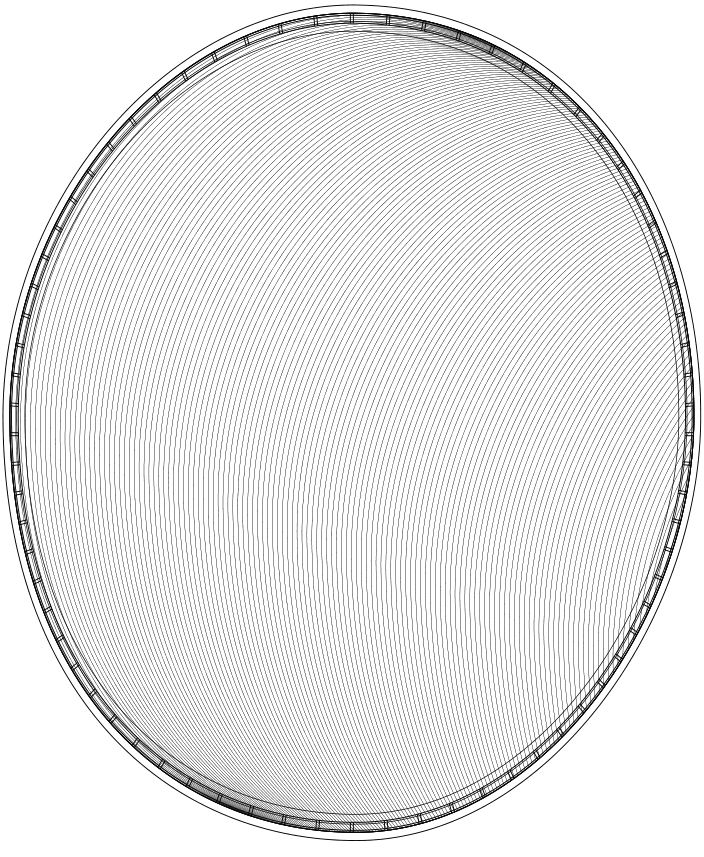
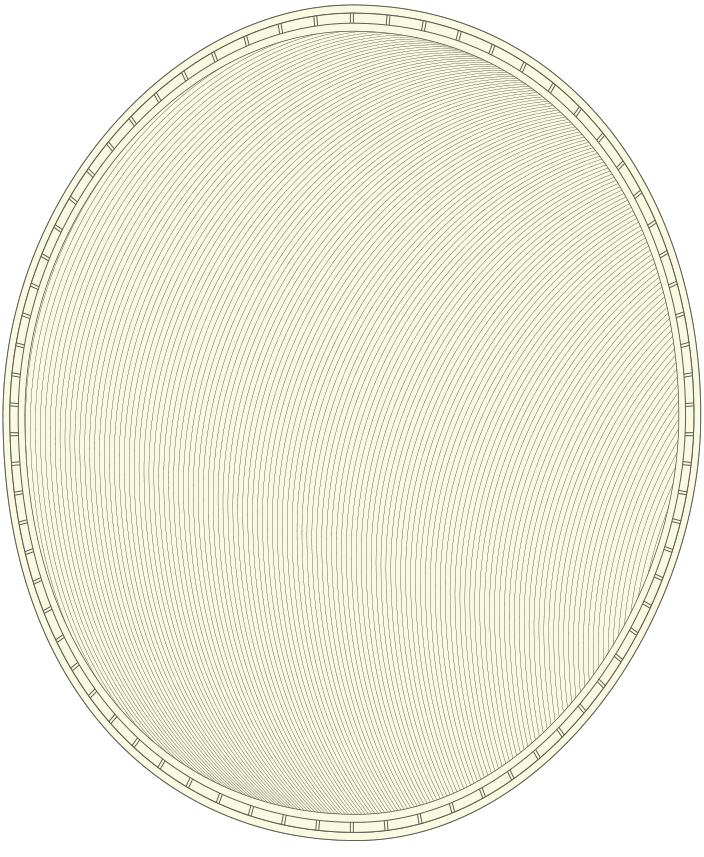
Put the frame's own colours back: the cream ground and the olive engraving
The frame shipped as an alpha stencil painted in the page's ink, which
threw away what the CV actually draws — the cream ground inside the oval,
the olive-grey guilloche, the cream ribbon with its olive outline and
letters. That was a decision about theming, not a faithful lift, and it
was the wrong one: the frame is a made thing and it should arrive as it
was made.

So the frame and the ribbon are now reproduced exactly, replayed path by
path in the CV's own colours onto a transparent ground, in document order
so the overlaps land where they did. Two images, no masks, identical in
both themes. The cream ground travels with the frame rather than being
faked from the page colour, which also means the photograph sits on its
proper warm backdrop instead of straight on the page.

The signature stays a stencil, and deliberately: it lies on the page
rather than on the frame's own ground, and its slate ink cannot be seen
against the dark theme. It is the one part that still takes the page's
ink colour.

Verified in both themes on both pages: photograph, frame and ribbon all
load as colour images, the signature keeps its mask and its ink follows
the theme, the layer order is engraving, photograph, ribbon, and nothing
overflows or errors.

diff --git a/site/about.html b/site/about.html
@@ -140,12 +140,13 @@ svg{ display:block; }
 .policy{ max-width:72ch; margin:0 auto; }
 
 /* ── the framed portrait ───────────────────────────────────────────────
-   Lifted off the CV: the photograph is a picture, but the engraved frame,
-   its name ribbon and the signature are line drawings held as alpha
-   stencils, so `background:currentColor` paints them in the page's ink —
-   dark on paper, pale in the dark theme, from one set of files. The
-   engraving sits behind the photograph and the ribbon in front of it,
-   which is how the original stacks them. */
+   Lifted off the CV and reproduced as it is drawn there: the frame keeps
+   its own cream ground and olive engraving, the ribbon its own colours,
+   in both themes. The engraving sits behind the photograph and the ribbon
+   in front of it, across the shoulders, which is how the original stacks
+   them. The signature is the exception: it lies on the page rather than
+   on the frame's ground, so it is an alpha stencil that CSS paints in the
+   page's ink, dark on paper and pale in the dark theme. */
 .mugshot{
   display:flex; align-items:flex-end; justify-content:center;
   gap:clamp(.2rem,1.2vw,1rem); margin:0 auto var(--gap);
@@ -155,25 +156,7 @@ svg{ display:block; }
   width:clamp(148px,26vw,214px); aspect-ratio:.82078;
 }
 .mugshot .frame > *{ position:absolute; }
-.mugshot .stencil{
-  inset:0; background:currentColor;
-  -webkit-mask-repeat:no-repeat; mask-repeat:no-repeat;
-  -webkit-mask-size:100% 100%; mask-size:100% 100%;
-}
-.mugshot .engraving{
-  -webkit-mask-image:url(assets/portrait/frame-back.webp);
-  mask-image:url(assets/portrait/frame-back.webp);
-  opacity:.72;
-}
-.mugshot .ribbon-fill{
-  -webkit-mask-image:url(assets/portrait/ribbon-fill.webp);
-  mask-image:url(assets/portrait/ribbon-fill.webp);
-  background:var(--paper);
-}
-.mugshot .ribbon-line{
-  -webkit-mask-image:url(assets/portrait/ribbon-line.webp);
-  mask-image:url(assets/portrait/ribbon-line.webp);
-}
+.mugshot .engraving, .mugshot .ribbon{ inset:0; width:100%; height:100%; display:block; }
 .mugshot .photo{
   left:3.137%; top:3.099%; width:93.724%; height:92.344%;
   display:block; object-fit:contain;
@@ -185,10 +168,11 @@ svg{ display:block; }
   -webkit-mask:url(assets/portrait/signature.webp) no-repeat center/100% 100%;
   mask:url(assets/portrait/signature.webp) no-repeat center/100% 100%;
 }
-/* No mask support: show the photograph and drop the line work rather than
-   painting solid blocks of ink where the stencils were. */
+/* No mask support: drop the signature rather than painting a solid block
+   of ink where its stencil was. The frame carries its own colours and is
+   unaffected. */
 @supports not ((-webkit-mask-image:url(x)) or (mask-image:url(x))){
-  .mugshot .stencil, .mugshot .autograph{ display:none; }
+  .mugshot .autograph{ display:none; }
 }
 @media (max-width:420px){
   .mugshot{ flex-direction:column; align-items:center; gap:.2rem; }
@@ -253,10 +237,9 @@ svg{ display:block; }
 
 <figure class="mugshot">
   <div class="frame">
-    <span class="stencil engraving" aria-hidden="true"></span>
+    <img class="engraving" src="assets/portrait/frame-back.webp" alt="" width="704" height="857" decoding="async">
     <img class="photo" src="assets/portrait/portrait.webp" alt="Fadil Karim" width="454" height="545" decoding="async">
-    <span class="stencil ribbon-fill" aria-hidden="true"></span>
-    <span class="stencil ribbon-line" aria-hidden="true"></span>
+    <img class="ribbon" src="assets/portrait/ribbon.webp" alt="" width="704" height="857" decoding="async">
   </div>
   <div class="autograph" role="img" aria-label="Fadil Karim&rsquo;s signature"></div>
 </figure>

diff --git a/site/vision-about.html b/site/vision-about.html
@@ -17,29 +17,12 @@
 }
 .vcard h3:first-of-type{ border-top:0; padding-top:0; margin-top:.6rem; }
 .pending{ font-style:italic; color:var(--ink-60); }
-/* the framed portrait: engraving behind, ribbon in front, both stencils
-   painted in the window's own ink */
+/* the framed portrait, as the CV draws it: cream ground and olive
+   engraving behind the photograph, the name ribbon in front */
 .mugshot{ display:flex; align-items:flex-end; justify-content:center; gap:.6rem; margin:0 0 1rem; }
 .mugshot .frame{ position:relative; flex:none; width:132px; aspect-ratio:.82078; }
 .mugshot .frame > *{ position:absolute; }
-.mugshot .stencil{
-  inset:0; background:currentColor;
-  -webkit-mask-repeat:no-repeat; mask-repeat:no-repeat;
-  -webkit-mask-size:100% 100%; mask-size:100% 100%;
-}
-.mugshot .engraving{
-  -webkit-mask-image:url(assets/portrait/frame-back.webp);
-  mask-image:url(assets/portrait/frame-back.webp); opacity:.72;
-}
-.mugshot .ribbon-fill{
-  -webkit-mask-image:url(assets/portrait/ribbon-fill.webp);
-  mask-image:url(assets/portrait/ribbon-fill.webp);
-  background:#1A1A1D;                 /* the glass card's own ground */
-}
-.mugshot .ribbon-line{
-  -webkit-mask-image:url(assets/portrait/ribbon-line.webp);
-  mask-image:url(assets/portrait/ribbon-line.webp);
-}
+.mugshot .engraving, .mugshot .ribbon{ inset:0; width:100%; height:100%; display:block; }
 .mugshot .photo{ left:3.137%; top:3.099%; width:93.724%; height:92.344%; display:block; }
 .mugshot .autograph{
   flex:none; width:92px; aspect-ratio:2.9291; margin-bottom:.5rem; background:currentColor;
@@ -68,10 +51,9 @@
 
     <figure class="mugshot">
       <div class="frame">
-        <span class="stencil engraving" aria-hidden="true"></span>
+        <img class="engraving" src="assets/portrait/frame-back.webp" alt="" width="704" height="857" decoding="async">
         <img class="photo" src="assets/portrait/portrait.webp" alt="Fadil Karim" width="454" height="545" decoding="async">
-        <span class="stencil ribbon-fill" aria-hidden="true"></span>
-        <span class="stencil ribbon-line" aria-hidden="true"></span>
+        <img class="ribbon" src="assets/portrait/ribbon.webp" alt="" width="704" height="857" decoding="async">
       </div>
       <div class="autograph" role="img" aria-label="Fadil Karim&rsquo;s signature"></div>
     </figure>

diff --git a/site/sw.js b/site/sw.js
@@ -21,7 +21,7 @@
    Nothing cross-origin is touched at all — since the typefaces moved
    in-house there is no outside request left to think about. */
 
-var VERSION = "vn-39";
+var VERSION = "vn-40";
 var SHELL   = VERSION + "-shell";
 var BULK    = VERSION + "-bulk";
 
@@ -45,8 +45,7 @@ var PRECACHE = [
   "/assets/brain-hull.js",
   "/assets/logo.svg", "/manifest.webmanifest",
   "/assets/portrait/portrait.webp", "/assets/portrait/frame-back.webp",
-  "/assets/portrait/ribbon-fill.webp", "/assets/portrait/ribbon-line.webp",
-  "/assets/portrait/signature.webp",
+  "/assets/portrait/ribbon.webp", "/assets/portrait/signature.webp",
   "/fonts/Flux-Regular.woff2", "/fonts/fonts.css",
   "/fonts/afacad-flux-latin-400-normal.woff2", "/fonts/afacad-flux-latin-500-normal.woff2",
   "/fonts/afacad-flux-latin-600-normal.woff2", "/fonts/newsreader-latin-400-normal.woff2",

diff --git a/scripts/extract_portrait.py b/scripts/extract_portrait.py
@@ -63,21 +63,18 @@ def classify(page):
     return back, front, sign, backdrop
 
 
-def stencil(paths, box, out, pad=0.5, mode="stroke"):
-    """Replay the paths in black on white over `box`, then keep only their
-       darkness as alpha.
+def replay(paths, box, pad=0.5, ink=None):
+    """Redraw the paths over `box` on a transparent page, in document order.
 
-       `mode` decides what a stroke-and-fill path contributes: "stroke" gives
-       its outline, "fill" its solid interior. The ribbon needs both, on two
-       layers — an opaque banner painted in the page colour, with the outline
-       and the letters over it in ink — because in the original it is a cream
-       banner lying across the shoulders, and a hollow one would vanish."""
+       With `ink` left alone each path keeps the CV's own colours, which is
+       how the frame is reproduced. Passing an ink colour draws everything
+       in it instead, for the signature, whose stencil CSS recolours."""
     box = pymupdf.Rect(box.x0 - pad, box.y0 - pad, box.x1 + pad, box.y1 + pad)
     tmp = pymupdf.open()
     page = tmp.new_page(width=box.width, height=box.height)
     shift = pymupdf.Matrix(1, 0, 0, 1, -box.x0, -box.y0)
-    shape = page.new_shape()
     for dr in paths:
+        shape = page.new_shape()          # one shape per path, so z-order holds
         for it in dr["items"]:
             if it[0] == "l":
                 shape.draw_line(it[1] * shift, it[2] * shift)
@@ -87,21 +84,36 @@ def stencil(paths, box, out, pad=0.5, mode="stroke"):
                 shape.draw_rect(it[1] * shift)
             elif it[0] == "qu":
                 shape.draw_quad(it[1] * shift)
-        stroked = dr["type"] in ("s", "fs") and mode == "stroke"
-        filled = dr["type"] == "f" or (dr["type"] == "fs" and mode == "fill")
-        shape.finish(color=(0, 0, 0) if stroked else None,
-                     fill=(0, 0, 0) if filled else None,
+        stroke = dr.get("color") if dr["type"] in ("s", "fs") else None
+        fill = dr.get("fill") if dr["type"] in ("f", "fs") else None
+        if ink is not None:
+            stroke = ink if stroke is not None else None
+            fill = ink if fill is not None else None
+        shape.finish(color=stroke, fill=fill,
                      width=max(dr.get("width") or 0.04, 0.04),
+                     even_odd=bool(dr.get("even_odd")),
                      closePath=bool(dr.get("closePath")))
-    shape.commit()
-    pix = page.get_pixmap(matrix=pymupdf.Matrix(SCALE, SCALE), colorspace=pymupdf.csGRAY)
-    grey = Image.frombytes("L", (pix.width, pix.height), pix.samples)
-    img = Image.new("LA", grey.size, (0, 0))          # greyscale+alpha: half the bytes of RGBA
-    # ink becomes opacity, quantised: the engraving is a texture rather than a
-    # gradient, and 32 levels halve the file with nothing visible lost
-    img.putalpha(grey.point(lambda v: ((255 - v) // 8) * 8))
+        shape.commit()
+    pix = page.get_pixmap(matrix=pymupdf.Matrix(SCALE, SCALE), alpha=True)
+    return Image.frombytes("RGBA", (pix.width, pix.height), pix.samples)
+
+
+def colour_layer(paths, box, out):
+    """The frame as the CV draws it, transparent everywhere it does not."""
+    img = replay(paths, box)
     img.save(out, lossless=True, method=6)
     return img.size
+
+
+def stencil(paths, box, out):
+    """Line work reduced to opacity, for CSS to paint in the page's ink."""
+    img = replay(paths, box, ink=(0, 0, 0))
+    out_img = Image.new("LA", img.size, (0, 0))       # greyscale+alpha: half the bytes
+    # quantised to 32 levels: this is a texture, not a gradient, and it halves
+    # the file with nothing visible lost
+    out_img.putalpha(img.getchannel("A").point(lambda v: (v // 8) * 8))
+    out_img.save(out, lossless=True, method=6)
+    return out_img.size
 
 
 def flatten(items, to_px, steps=64):
@@ -129,11 +141,11 @@ def main(src):
     frame_box, sign_box = union(back + front), union(sign)
     OUT.mkdir(parents=True, exist_ok=True)
 
-    banner = [d for d in front if d["type"] == "fs"]
-    print("engraving   ", stencil(back,   frame_box, OUT / "frame-back.webp"), f"({len(back)} paths)")
-    print("ribbon fill ", stencil(banner, frame_box, OUT / "ribbon-fill.webp", mode="fill"), f"({len(banner)} paths)")
-    print("ribbon line ", stencil(front,  frame_box, OUT / "ribbon-line.webp"), f"({len(front)} paths)")
-    print("signature   ", stencil(sign,   sign_box,  OUT / "signature.webp"), f"({len(sign)} paths)")
+    # the cream ground belongs to the frame, behind the photograph
+    print("frame       ", colour_layer([backdrop] + back, frame_box, OUT / "frame-back.webp"),
+          f"({len(back) + 1} paths)")
+    print("ribbon      ", colour_layer(front, frame_box, OUT / "ribbon.webp"), f"({len(front)} paths)")
+    print("signature   ", stencil(sign, sign_box, OUT / "signature.webp"), f"({len(sign)} paths)")
 
     # the photograph, clipped to the oval it is laid over
     img_info = next(i for i in page.get_image_info(xrefs=True) if i["xref"] == 263)
